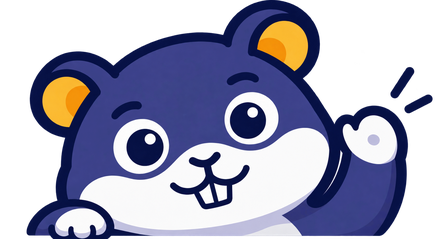
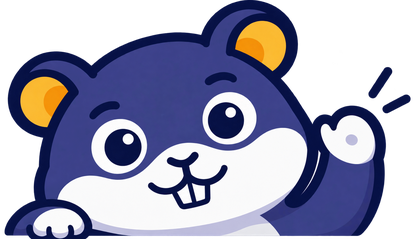
Corrige alinhamento do mascote no canto do cartão de login
A pata esquerda deixava o canto arredondado do cartão exposto, sem
cobri-lo direito, porque o PNG tinha uma margem transparente em volta
do desenho. Recortada a margem morta (kliny-login-mascote.png e @2x) e
ajustados os percentuais de largura e margem no AuthLayout para o
mascote ficar bem encaixado na borda. A sobra no canto direito, menor
e decorrente da pose (a mão levantada não desce até o canto), fica
para depois.

Claude-Session: https://claude.ai/code/session_01Vez2meTejpmAvREQtEBuAd

diff --git a/frontend/src/components/layout/AuthLayout.tsx b/frontend/src/components/layout/AuthLayout.tsx
@@ -19,15 +19,17 @@ export function AuthLayout({ title, subtitle, mascot = false, children }: AuthLa
       <div className="w-full max-w-sm">
         {/*
           O mascote fica fora do fluxo, então a margem reserva o espaço dele acima do cartão.
-          Percentuais de margem são relativos à largura do cartão: a imagem (440x239) ocupa
-          91,7% da largura, ou seja 49,8% de altura, menos os 3,54% que descem sobre a borda.
+          Percentuais de margem são relativos à largura do cartão: a imagem (415x239, já sem a
+          margem transparente do PNG original, que escondia o canto arredondado do cartão por
+          baixo das patas) ocupa 91,7% da largura, ou seja 52,8% de altura, menos os 3,54% que
+          descem sobre a borda.
         */}
-        <main className={`relative rounded-2xl bg-surface p-6 shadow-lg shadow-primary/10 sm:p-8 ${mascot ? 'mt-[46.3%]' : ''}`}>
+        <main className={`relative rounded-2xl bg-surface p-6 shadow-lg shadow-primary/10 sm:p-8 ${mascot ? 'mt-[49.3%]' : ''}`}>
           {mascot && (
             <img
               src="/mascote/kliny-login-mascote.png"
               srcSet="/mascote/kliny-login-mascote.png 1x, /mascote/kliny-login-mascote@2x.png 2x"
-              width={440}
+              width={415}
               height={239}
               alt=""
               draggable={false}
